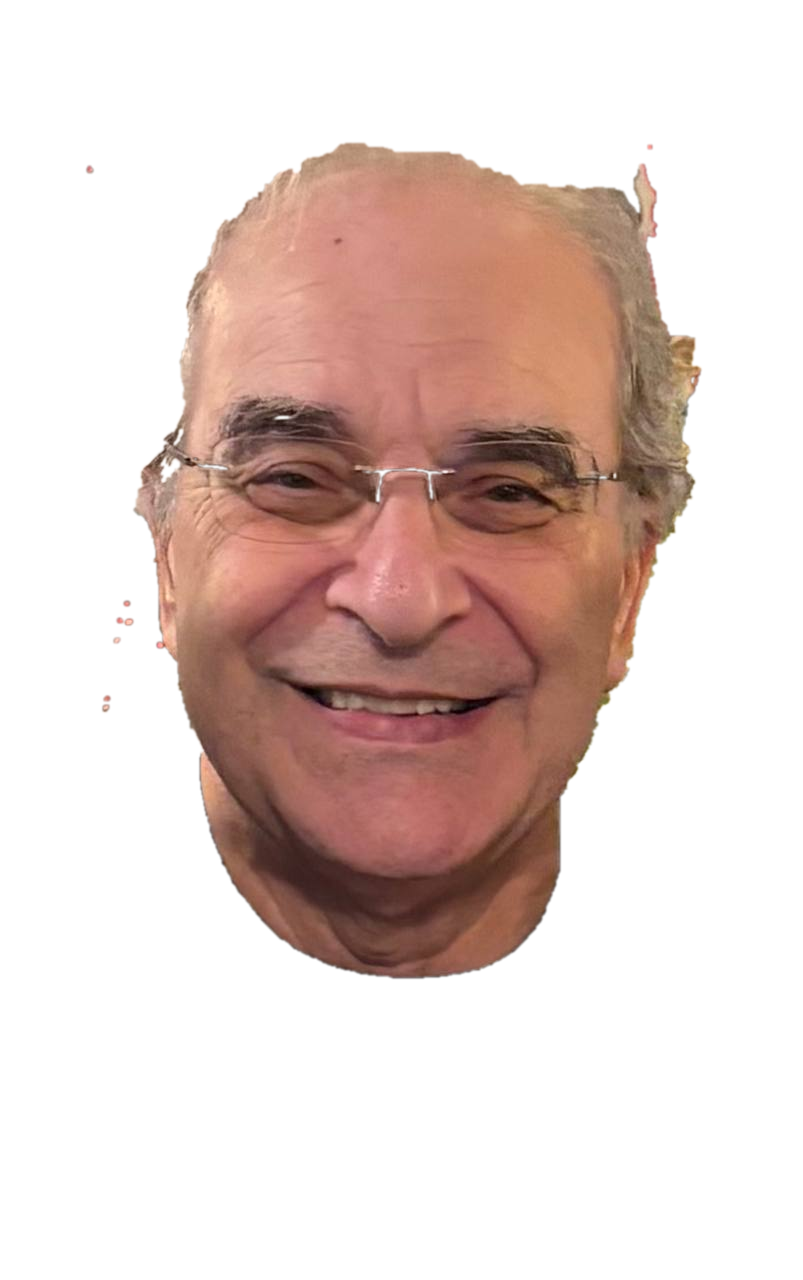
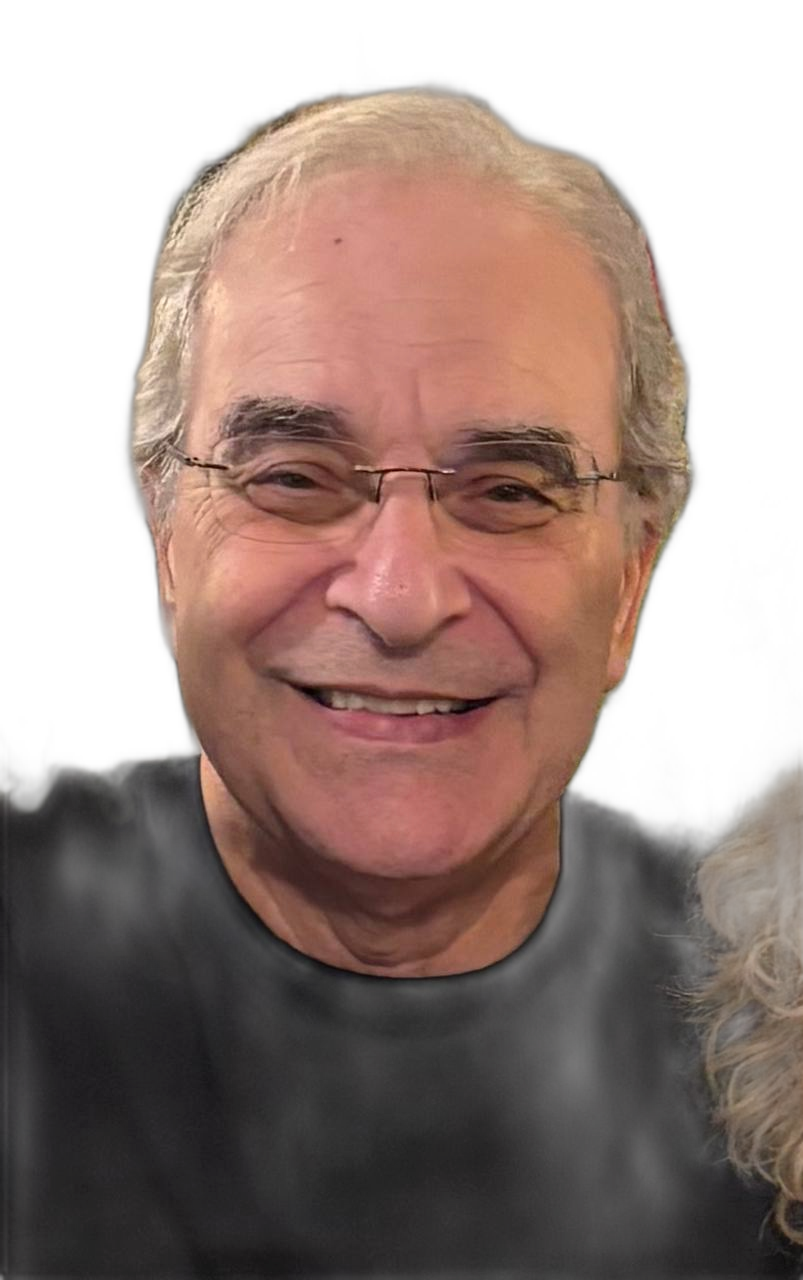
byElie: warm up light color palette, make dark mode deeper ink, remove photo background, bump to v8.2

diff --git a/web/github.io/byElie/shared.css b/web/github.io/byElie/shared.css
@@ -1,26 +1,26 @@
 :root {
-  --bg:#030712;
-  --surface:#0b1121;
-  --surface-2:#141f36;
-  --text:#f8fafc;
-  --muted:#94a3a6;
-  --line:#1e293b;
-  --brand:#e2e8f0;
-  --brand-2:#94a3b8;
-  --accent:#334155;
-  --btn-primary-fg:#030712;
+  --bg:#0e1014;       /* Deepest charcoal / dark slate */
+  --surface:#15181e;  /* Rich dark card surface */
+  --surface-2:#1b1f26;/* Subtle elevation */
+  --text:#f0f1f4;     /* Soft white */
+  --muted:#a3a7af;    /* Less stark gray */
+  --line:#2c313c;     /* Soft dark border */
+  --brand:#d8dadd;    /* Soft silver/pearl */
+  --brand-2:#7f8595;  /* Muted grey-blue */
+  --accent:#3e4757;   /* Elegant slate accent */
+  --btn-primary-fg:#0e1014;
   --radius:0;
 }
 html[data-theme="light"]{
-  --bg:#f8fafc;
-  --surface:#ffffff;
-  --surface-2:#f1f5f9;
-  --text:#0f172a;
-  --muted:#64748b;
-  --line:#e2e8f0;
-  --brand:#0f172a;
-  --brand-2:#334155;
-  --accent:#cbd5e1;
+  --bg:#fbfaf8;       /* Warm ivory/paper */
+  --surface:#ffffff;  /* Pure white */
+  --surface-2:#f4f2ec;/* Oat / Sand surface */
+  --text:#24221f;     /* Deep espresso */
+  --muted:#7c756e;    /* Warm stone gray */
+  --line:#e4ddd4;     /* Soft beige line */
+  --brand:#24221f;    /* Primary brand deep color */
+  --brand-2:#5e6863;  /* Muted sage */
+  --accent:#d1c8bb;   /* Soft clay accent */
   --btn-primary-fg:#ffffff;
 }
 *{box-sizing:border-box}

diff --git a/web/github.io/byElie/index.html b/web/github.io/byElie/index.html
@@ -18,7 +18,7 @@
       <a href="./cad-design.html">CAD on demand</a> <span>|</span>
       <a href="./gallery.html">Gallery</a>
     </nav>
-    <div class="brand">BY ELIE — v8.1</div>
+    <div class="brand">BY ELIE — v8.2</div>
     <button class="theme-toggle" type="button" data-theme-toggle>Theme</button>
   </header>
   <main id="main-content" class="shell">
@@ -61,7 +61,7 @@
     <section class="panel" id="about">
       <h2>About Elie</h2>
       <div class="about-grid">
-        <img class="about-photo" src="./assets/elie-profile.jpg" alt="Portrait of Elie" loading="lazy" />
+        <img class="about-photo" src="./assets/elie-profile-nobg.png" alt="Portrait of Elie" loading="lazy" />
         <div class="about-text">
           <p>I am Elie: builder, maker, and systems-minded operator focused on products that solve practical everyday problems.</p>
           <p>My workflow combines physical prototyping, CAD design, visual storytelling, and ClawdBot-powered process automation so projects move from concept to delivery without friction.</p>

diff --git a/web/github.io/byElie/gallery.html b/web/github.io/byElie/gallery.html
@@ -17,7 +17,7 @@
       <a  href="./cad-design.html">CAD on demand</a> <span>|</span>
       <a class="is-active" href="./gallery.html">Gallery</a>
     </nav>
-    <div class="brand">BY ELIE — v8.1</div>
+    <div class="brand">BY ELIE — v8.2</div>
     <button class="theme-toggle" type="button" data-theme-toggle>Theme</button>
   </header>
   <main id="main-content" class="shell">

diff --git a/web/github.io/byElie/cad-design.html b/web/github.io/byElie/cad-design.html
@@ -17,7 +17,7 @@
       <a class="is-active" href="./cad-design.html">CAD on demand</a> <span>|</span>
       <a href="./gallery.html">Gallery</a>
     </nav>
-    <div class="brand">BY ELIE — v8.1</div>
+    <div class="brand">BY ELIE — v8.2</div>
     <button class="theme-toggle" type="button" data-theme-toggle>Theme</button>
   </header>
   <main id="main-content" class="shell">

diff --git a/web/github.io/byElie/plans.html b/web/github.io/byElie/plans.html
@@ -17,7 +17,7 @@
       <a  href="./cad-design.html">CAD on demand</a> <span>|</span>
       <a  href="./gallery.html">Gallery</a>
     </nav>
-    <div class="brand">BY ELIE — v8.1</div>
+    <div class="brand">BY ELIE — v8.2</div>
     <button class="theme-toggle" type="button" data-theme-toggle>Theme</button>
   </header>
   <main id="main-content" class="shell">

diff --git a/web/github.io/byElie/prints.html b/web/github.io/byElie/prints.html
@@ -17,7 +17,7 @@
       <a  href="./cad-design.html">CAD on demand</a> <span>|</span>
       <a  href="./gallery.html">Gallery</a>
     </nav>
-    <div class="brand">BY ELIE — v8.1</div>
+    <div class="brand">BY ELIE — v8.2</div>
     <button class="theme-toggle" type="button" data-theme-toggle>Theme</button>
   </header>
   <main id="main-content" class="shell">

diff --git a/web/github.io/byElie/web-design.html b/web/github.io/byElie/web-design.html
@@ -17,7 +17,7 @@
       <a  href="./cad-design.html">CAD on demand</a> <span>|</span>
       <a  href="./gallery.html">Gallery</a>
     </nav>
-    <div class="brand">BY ELIE — v8.1</div>
+    <div class="brand">BY ELIE — v8.2</div>
     <button class="theme-toggle" type="button" data-theme-toggle>Theme</button>
   </header>
   <main id="main-content" class="shell">
